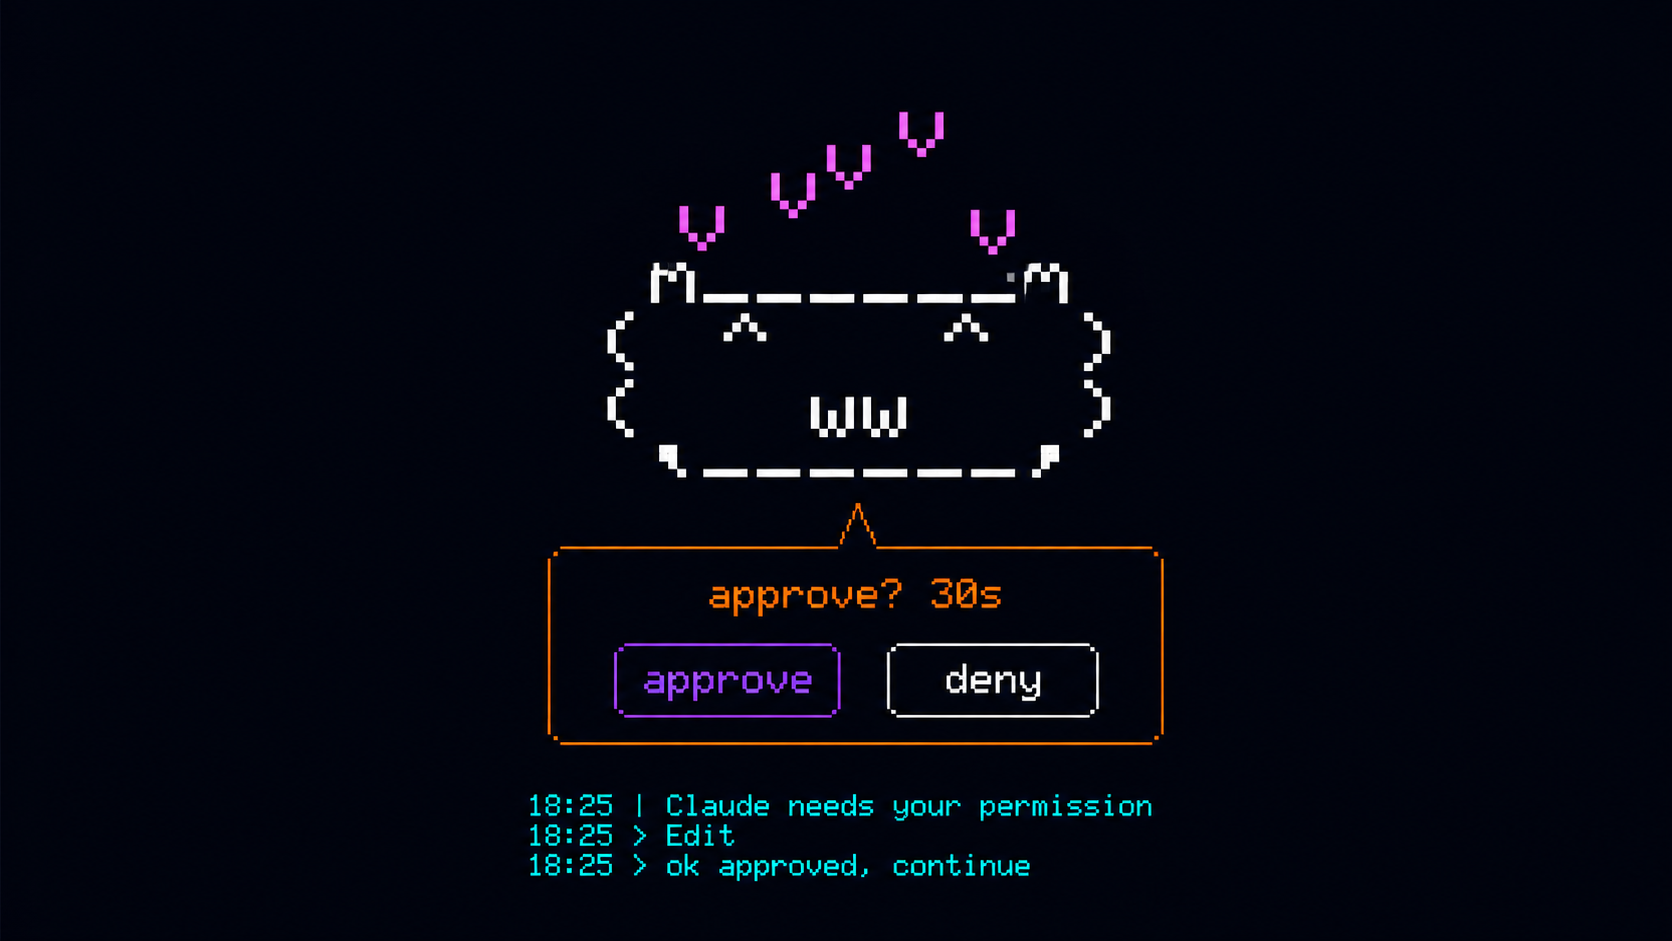
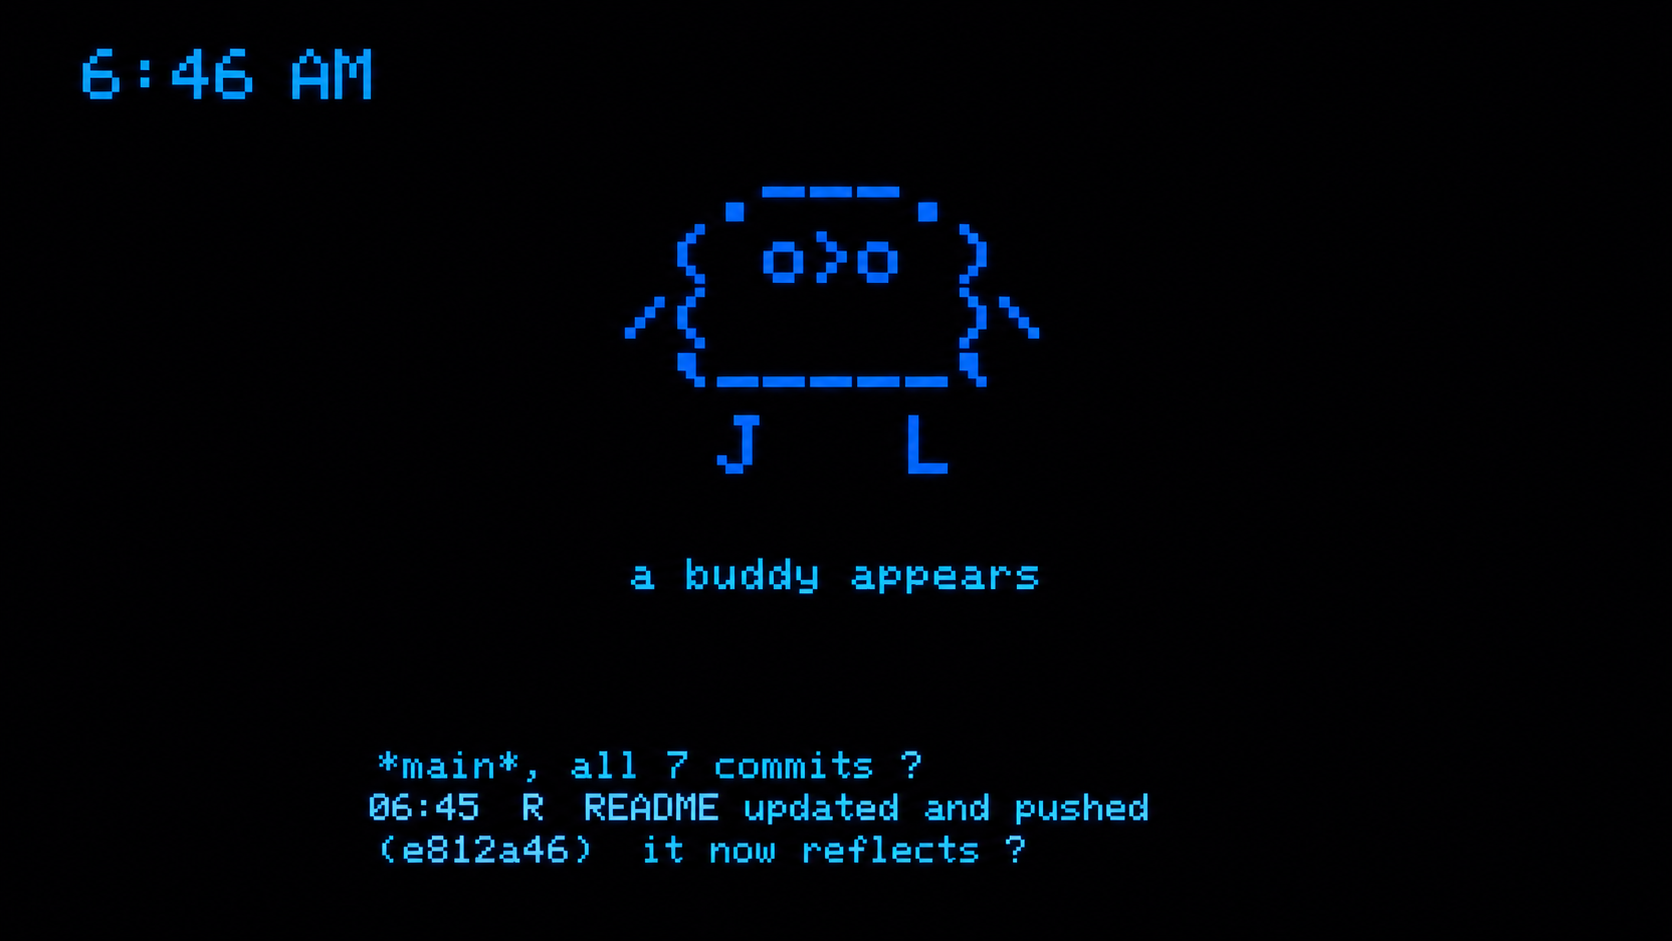
README: new hero photo — the buddy live on the board
Replaces the old thumbnail with a shot of the actual screen: blob
saying hi, mini clock, and the transcript HUD narrating its own
README update.

diff --git a/README.md b/README.md
@@ -1,6 +1,6 @@
 # Claude Pet 🐾
 
-![claude pet — esp32 desk pet for claude code](docs/assets/thumbnail.png)
+![the ASCII buddy on the board's screen — "a buddy appears", with the mini clock and live transcript HUD](docs/assets/thumbnail.png)
 
 A desk pet on an ESP32-S3 touchscreen that reacts to **Claude Code** in real time. It sleeps
 when you're idle, gets busy when Claude is working, and demands attention when Claude is
